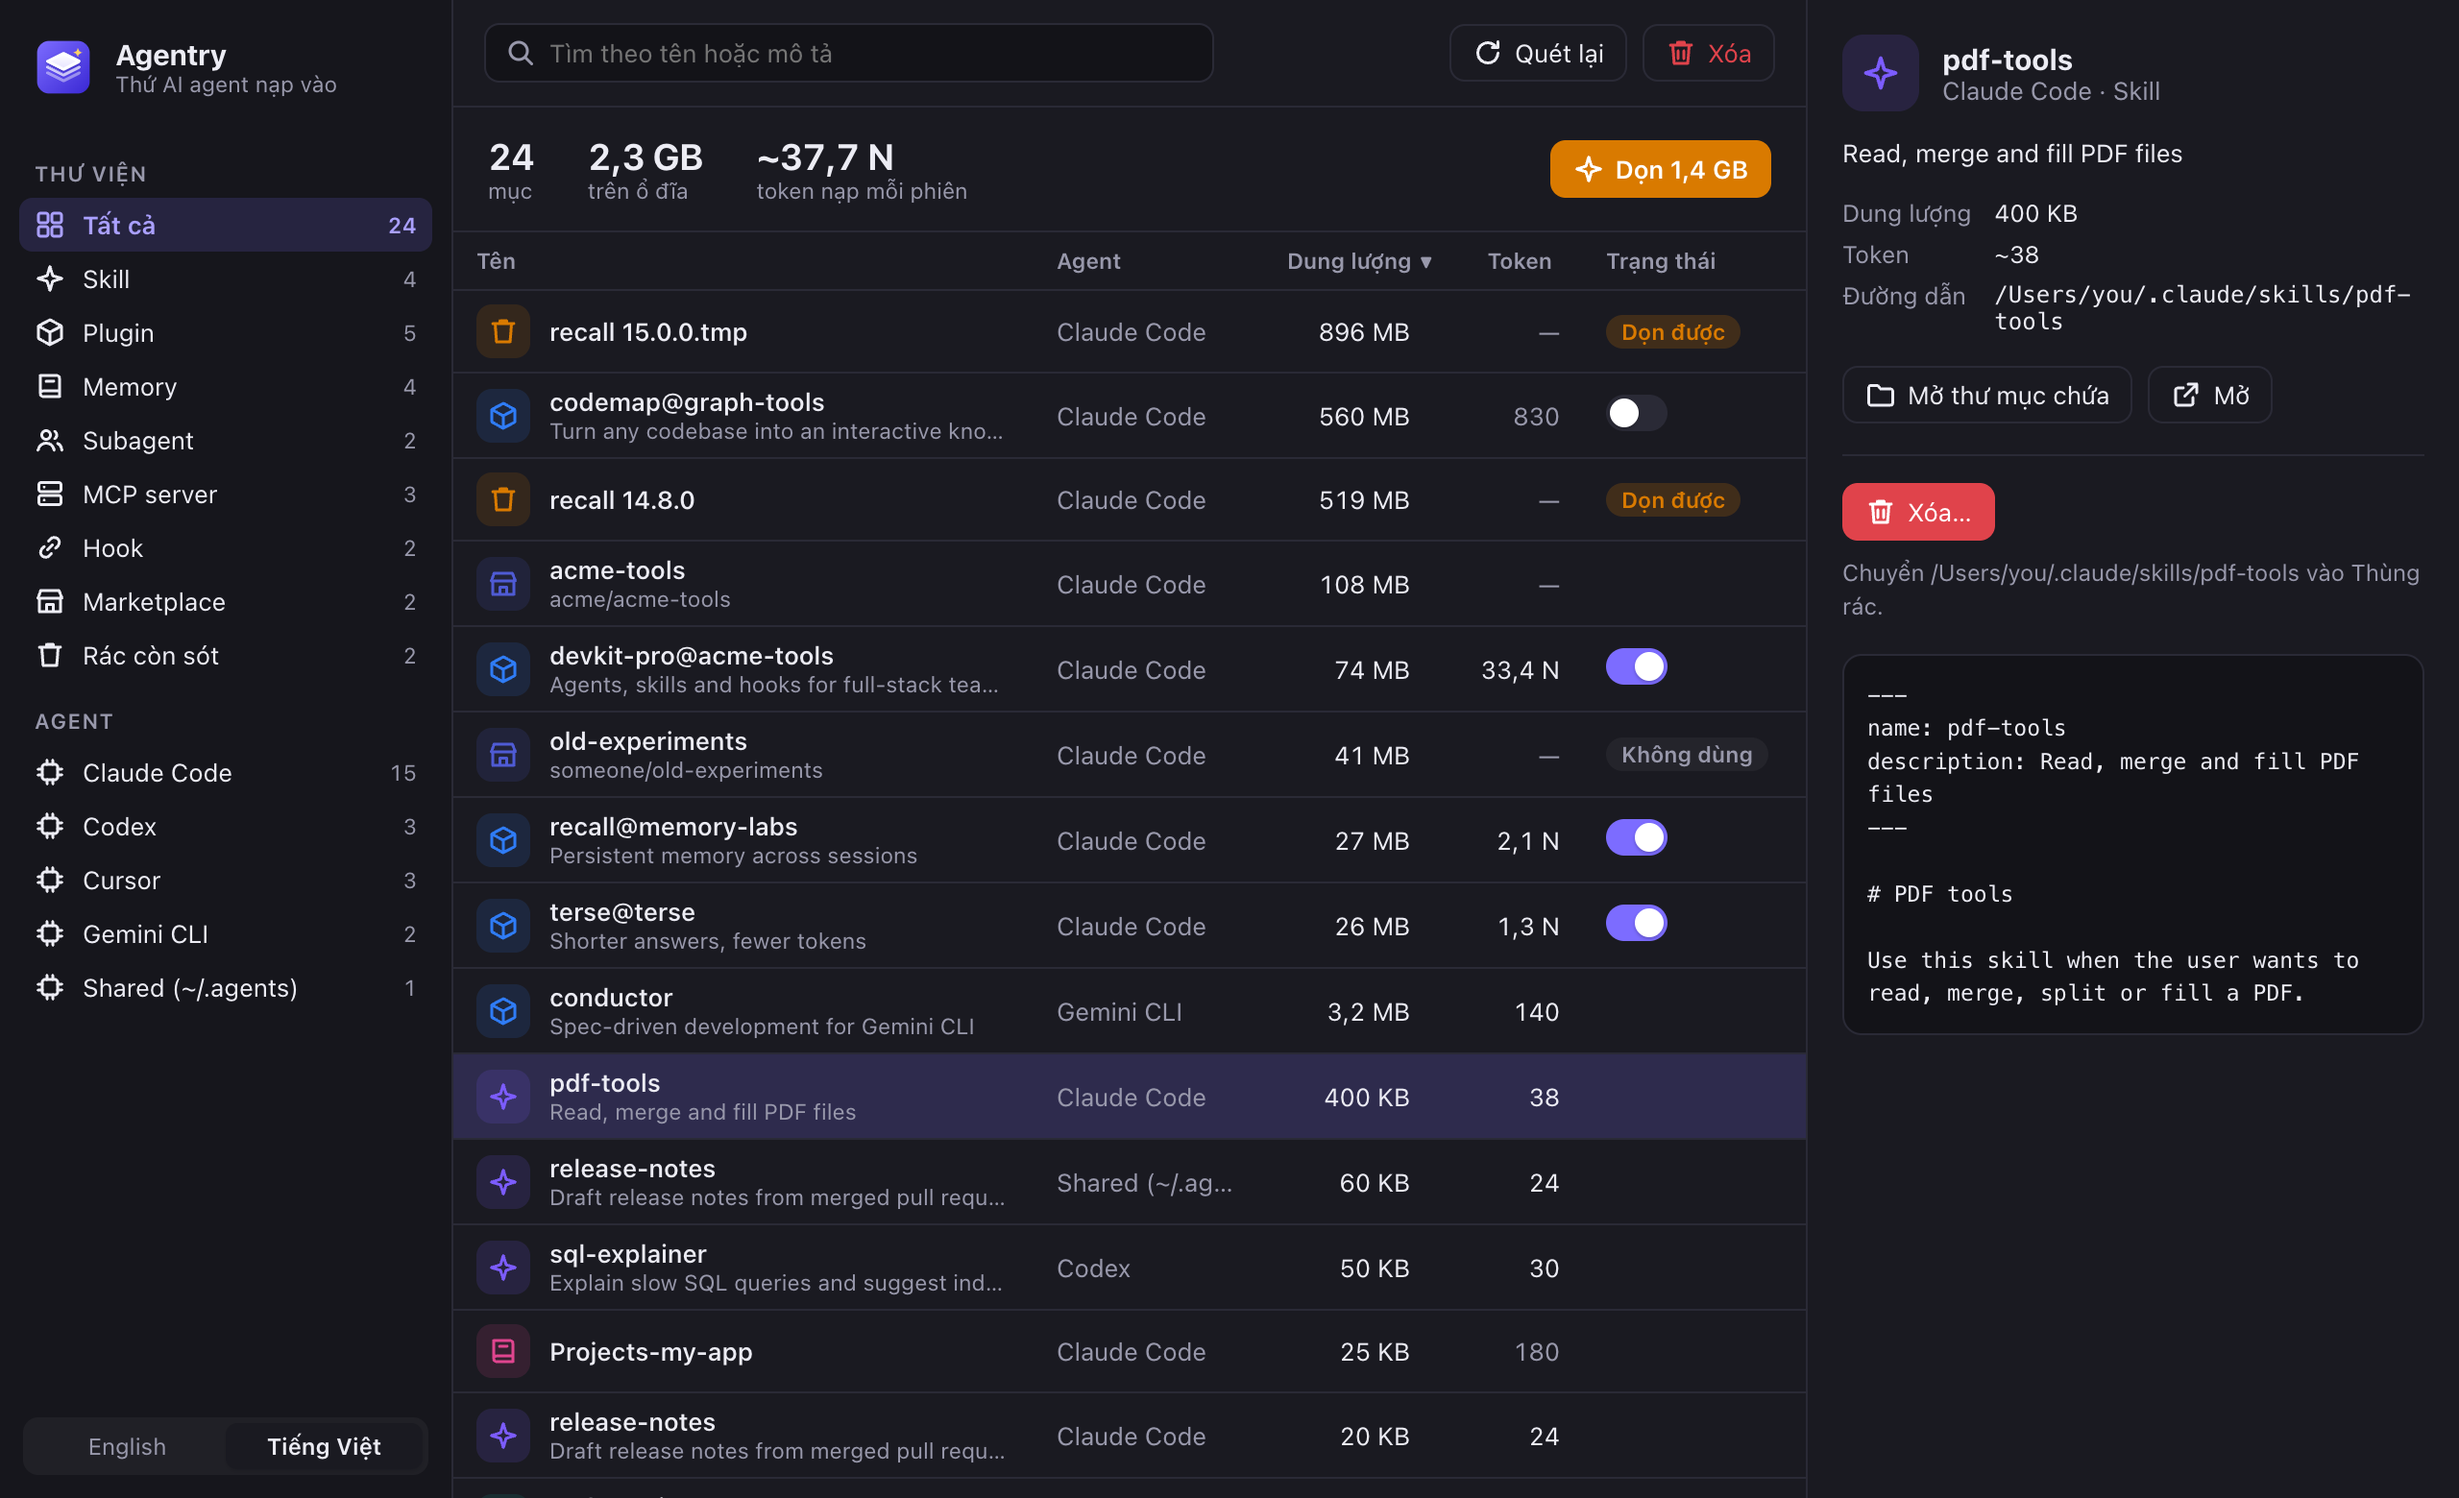
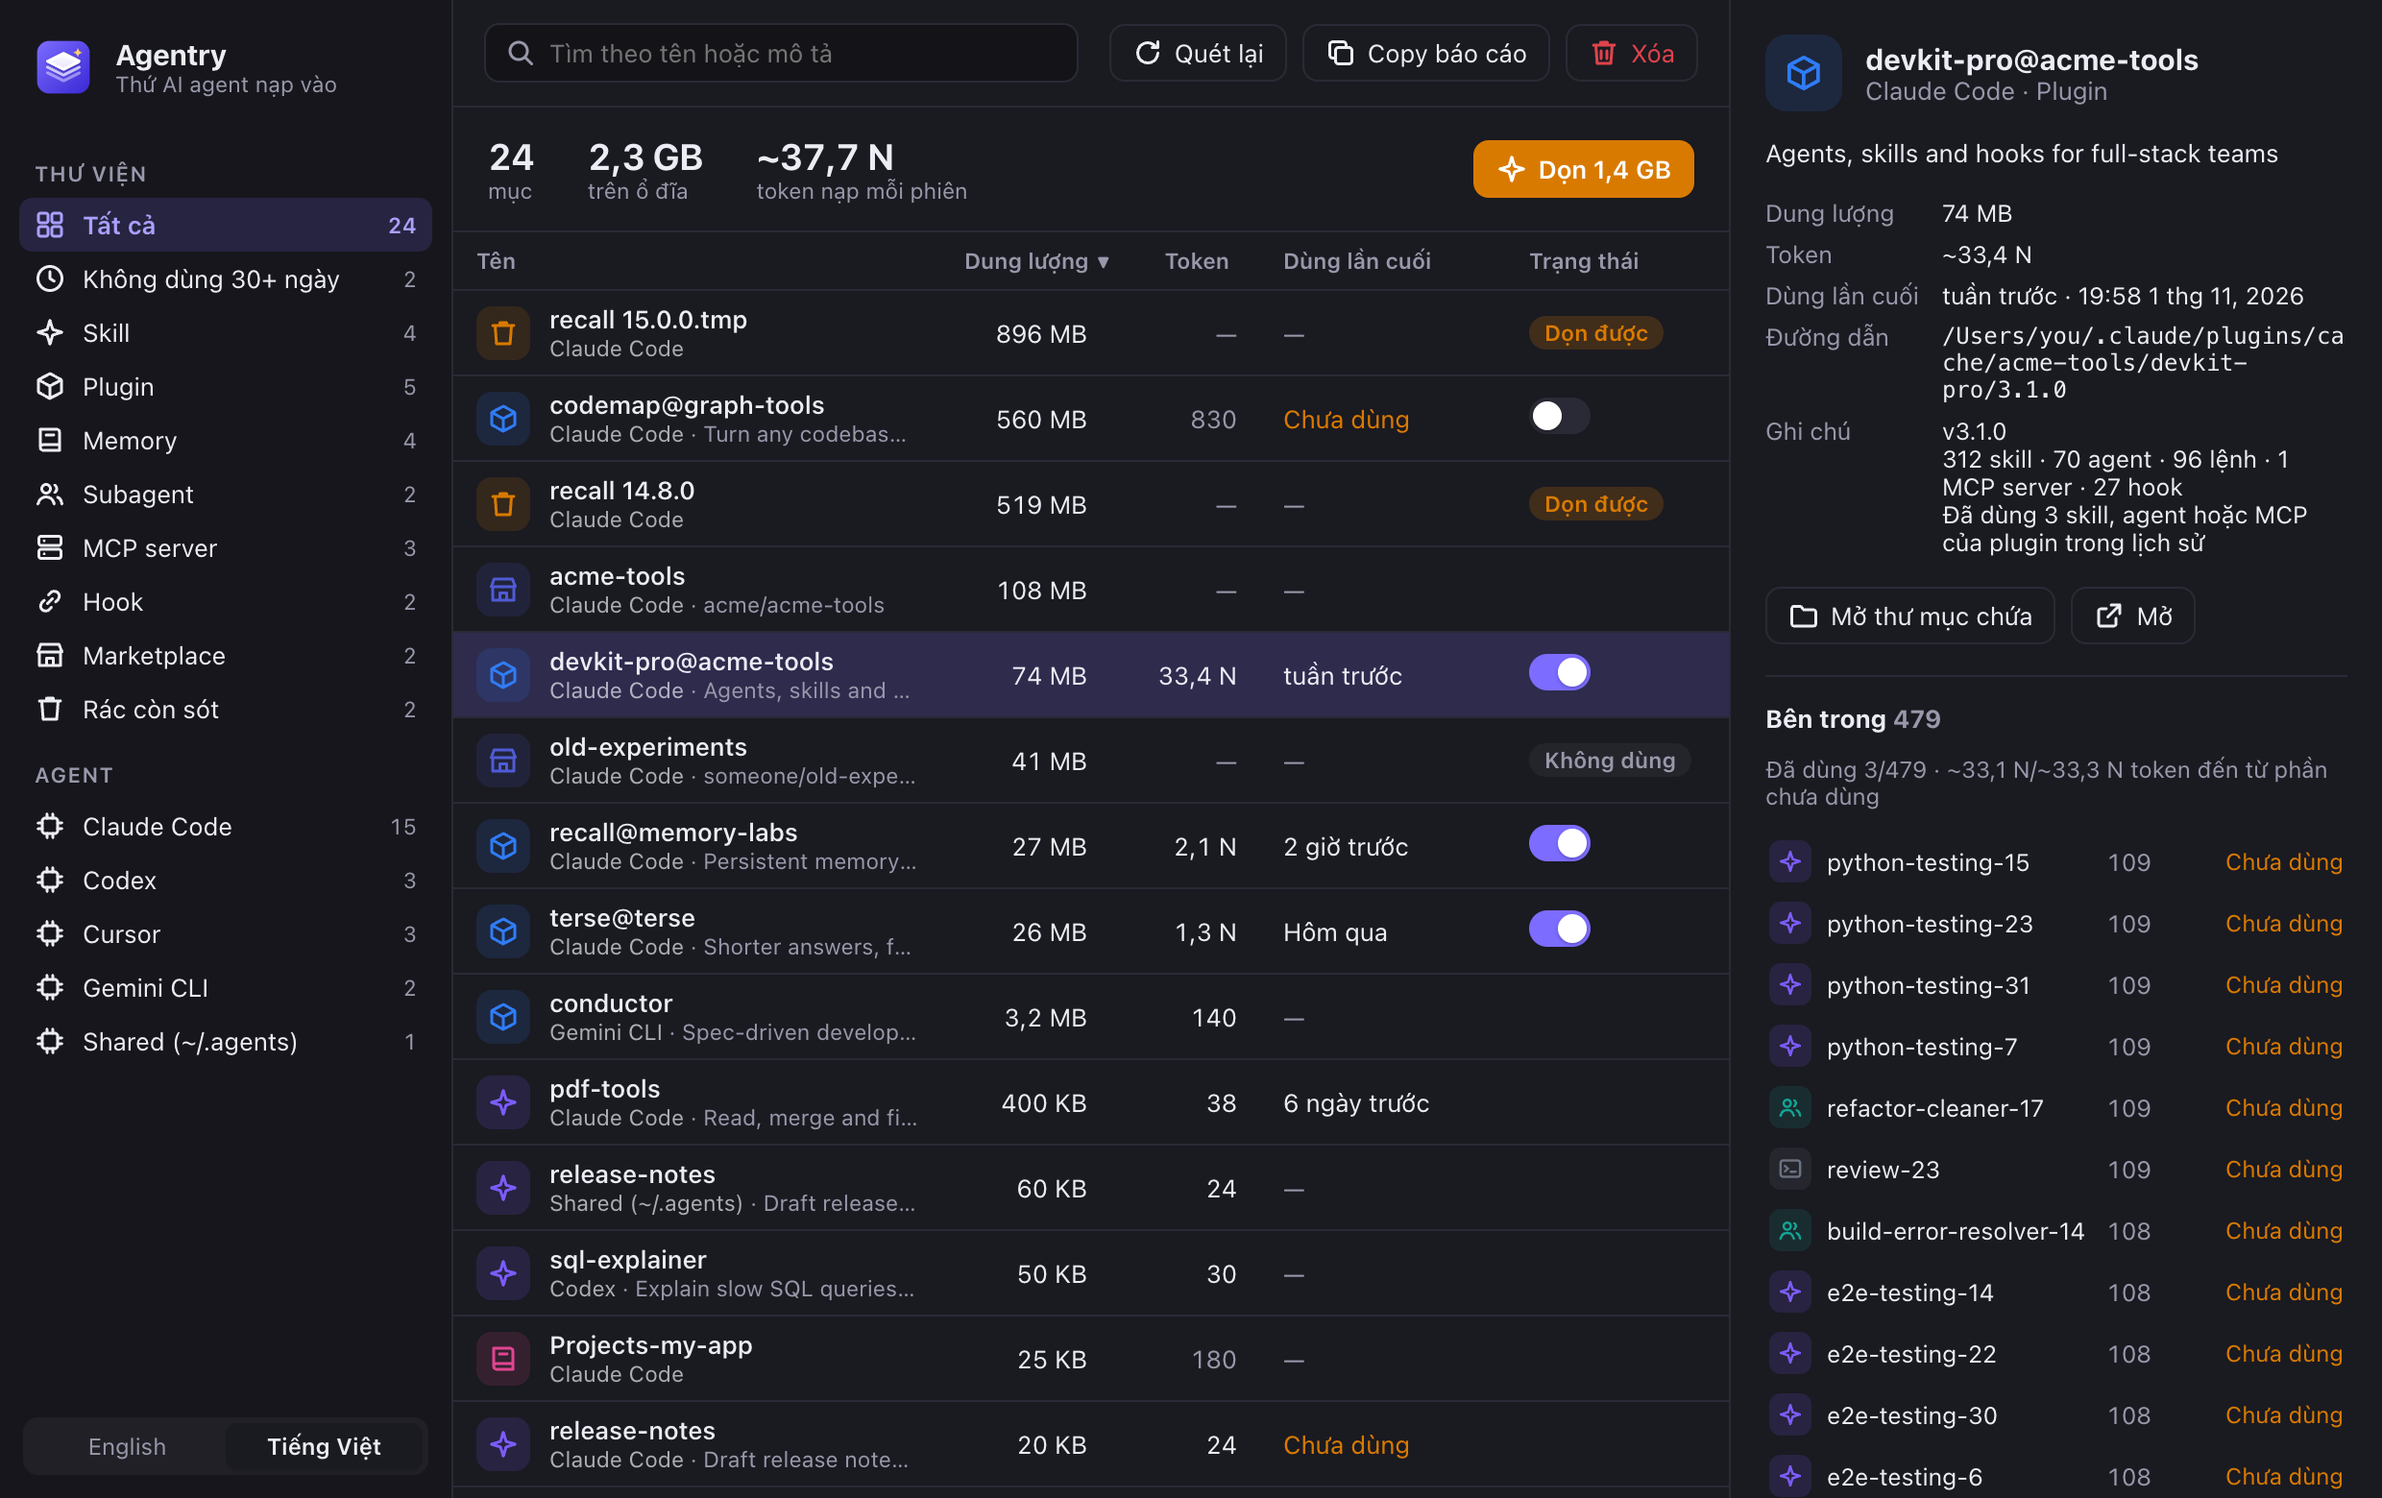
Add "Copy report" and refresh README screenshots
A toolbar button copies a Markdown summary of the setup: item count, disk
use, tokens loaded per session, reclaimable leftovers, items unused for
30+ days and the eight biggest context costs, in the current language.

- Names and numbers only: no file paths, and project memory (which can
  name private projects) never counts toward the top list.
- Falls back to a hidden text area when a webview blocks the async
  clipboard API, and confirms with a short green toast.
- README screenshots now show the Last used column and a plugin's
  "What's inside" list.

diff --git a/ui/app.js b/ui/app.js
@@ -119,6 +119,7 @@ function renderToolbar() {
   refresh.disabled = state.busy;
   refresh.classList.toggle('spin', state.busy);
   $('#remove').disabled = state.busy || !selectedItems().some(canRemove);
+  $('#copy-report').disabled = !state.items.length;
 }
 
 function renderSummary(list) {
@@ -320,8 +321,65 @@ function confirmRemoval(items) {
   $('#confirm').showModal();
 }
 
+/** A Markdown summary to share. Names and numbers only: no file paths, no project memory. */
+function buildReport() {
+  const items = state.items;
+  const md = (text) => String(text).replace(/\|/g, '\\|');
+  const leftovers = items.filter((i) => i.kind === 'leftover');
+  const stale = items.filter(isStale);
+  const top = items.filter((i) => sessionTokens(i) > 0).sort((a, b) => sessionTokens(b) - sessionTokens(a)).slice(0, 8);
+  return [
+    `## ${t('report.title')}`,
+    '',
+    `- ${t('report.totals', { items: items.length, disk: fmtBytes(sum(items, (i) => i.bytes)), tokens: fmtTokens(sum(items, sessionTokens)) })}`,
+    leftovers.length ? `- ${t('report.leftovers', { size: fmtBytes(sum(leftovers, (i) => i.bytes)) })}` : null,
+    stale.length ? `- ${t('report.stale', { n: stale.length })}` : null,
+    '',
+    `### ${t('report.top')}`,
+    '',
+    `| ${t('columns.name')} | ${t('columns.agent')} | ${t('columns.tokens')} | ${t('columns.lastUsed')} |`,
+    '|---|---|--:|---|',
+    ...top.map((i) => `| ${md(i.name)} | ${md(i.agent)} | ${fmtTokens(sessionTokens(i))} | ${md(lastUsedText(i))} |`),
+    '',
+    `_${t('report.footer')}: https://github.com/pvhung1403/agentry_`,
+  ]
+    .filter((line) => line !== null)
+    .join('\n');
+}
+
+async function copyText(text) {
+  try {
+    await navigator.clipboard.writeText(text);
+    return true;
+  } catch {
+    // Some webviews block the async clipboard API; fall back to a hidden text area.
+    const area = document.createElement('textarea');
+    area.value = text;
+    area.style.position = 'fixed';
+    area.style.opacity = '0';
+    document.body.append(area);
+    area.select();
+    const ok = document.execCommand('copy');
+    area.remove();
+    return ok;
+  }
+}
+
+let noticeTimer = 0;
+
+function showNotice(text) {
+  const toast = $('#toast');
+  toast.className = 'toast ok';
+  toast.innerHTML = `<h4>${esc(text)}<button type="button" data-action="dismiss" aria-label="${esc(t('dismiss'))}">${icon('close')}</button></h4>`;
+  toast.hidden = false;
+  clearTimeout(noticeTimer);
+  noticeTimer = setTimeout(() => (toast.hidden = true), 4000);
+}
+
 function showFailures(failures) {
   const toast = $('#toast');
+  clearTimeout(noticeTimer);
+  toast.className = 'toast';
   toast.innerHTML = `<h4>${esc(t('failed'))}<button type="button" data-action="dismiss" aria-label="${esc(t('dismiss'))}">${icon('close')}</button></h4>
     <ul>${failures.map((f) => `<li>${f.name ? `<strong>${esc(f.name)}</strong>: ` : ''}${esc(errorText(f.message))}</li>`).join('')}</ul>`;
   toast.hidden = false;
@@ -411,6 +469,9 @@ document.addEventListener('click', (event) => {
   else if (action === 'reveal' && item) api.reveal(item.id).catch((e) => showFailures([{ name: item.name, message: e }]));
   else if (action === 'open' && item) api.open(item.id).catch((e) => showFailures([{ name: item.name, message: e }]));
   else if (action === 'dismiss') $('#toast').hidden = true;
+  else if (action === 'copy-report') {
+    copyText(buildReport()).then((ok) => (ok ? showNotice(t('copied')) : showFailures([{ name: '', message: t('copyFailed') }])));
+  }
   else if (action === 'all-parts') {
     showAllParts = true;
     renderInspector();

diff --git a/ui/i18n.js b/ui/i18n.js
@@ -17,6 +17,18 @@ const dictionaries = {
     refresh: 'Refresh',
     refreshHint: 'Scan again (⌘R / Ctrl+R)',
     remove: 'Remove',
+    copyReport: 'Copy report',
+    copyReportHint: 'Copy a Markdown summary to share. File paths are left out.',
+    copied: 'Report copied as Markdown. No file paths included.',
+    copyFailed: 'Could not copy to the clipboard.',
+    report: {
+      title: 'My AI agent loadout',
+      totals: '**{items}** items · **{disk}** on disk · **~{tokens}** tokens loaded per session',
+      leftovers: '**{size}** reclaimable from old plugin versions',
+      stale: '**{n}** items unused for 30+ days',
+      top: 'Biggest context costs',
+      footer: 'Made with Agentry',
+    },
     columns: { name: 'Name', agent: 'Agent', kind: 'Kind', bytes: 'Size', tokens: 'Tokens', lastUsed: 'Last used', status: 'Status' },
     unused30: 'Unused 30+ days',
     lastUsed: 'Last used',
@@ -100,6 +112,18 @@ const dictionaries = {
     refresh: 'Quét lại',
     refreshHint: 'Quét lại (⌘R / Ctrl+R)',
     remove: 'Xóa',
+    copyReport: 'Copy báo cáo',
+    copyReportHint: 'Copy bản tóm tắt Markdown để chia sẻ. Không kèm đường dẫn file.',
+    copied: 'Đã copy báo cáo dạng Markdown, không kèm đường dẫn file.',
+    copyFailed: 'Không copy được vào clipboard.',
+    report: {
+      title: 'Bộ đồ nghề AI agent của tôi',
+      totals: '**{items}** mục · **{disk}** trên ổ đĩa · **~{tokens}** token nạp mỗi phiên',
+      leftovers: '**{size}** có thể dọn từ bản plugin cũ',
+      stale: '**{n}** mục không dùng 30+ ngày',
+      top: 'Tốn context nhiều nhất',
+      footer: 'Tạo bằng Agentry',
+    },
     columns: { name: 'Tên', agent: 'Agent', kind: 'Loại', bytes: 'Dung lượng', tokens: 'Token', lastUsed: 'Dùng lần cuối', status: 'Trạng thái' },
     unused30: 'Không dùng 30+ ngày',
     lastUsed: 'Dùng lần cuối',

diff --git a/ui/styles.css b/ui/styles.css
@@ -189,6 +189,8 @@ dialog li span { color: var(--muted); font-size: 12px; word-break: break-word; }
 .dialog-buttons { display: flex; justify-content: flex-end; gap: 8px; margin-top: 16px; }
 
 .toast { position: fixed; right: 20px; bottom: 20px; width: min(420px, 90vw); background: var(--panel); border: 1px solid var(--border); border-left: 4px solid var(--danger); border-radius: 10px; box-shadow: var(--shadow); padding: 12px 14px; z-index: 10; user-select: text; -webkit-user-select: text; }
+.toast.ok { border-left-color: #1f9d55; }
+.toast.ok h4 { margin: 0; }
 .toast h4 { margin: 0 0 6px; display: flex; justify-content: space-between; align-items: center; }
 .toast ul { margin: 0; padding-left: 18px; color: var(--muted); max-height: 200px; overflow: auto; }
 .toast button { border: 0; background: none; cursor: pointer; color: var(--muted); padding: 2px; }

diff --git a/ui/index.html b/ui/index.html
@@ -35,6 +35,9 @@
         <button type="button" class="btn" id="refresh" data-i18n-title="refreshHint">
           <span data-icon="refresh"></span><span data-i18n="refresh"></span>
         </button>
+        <button type="button" class="btn" id="copy-report" data-action="copy-report" data-i18n-title="copyReportHint">
+          <span data-icon="copy"></span><span data-i18n="copyReport"></span>
+        </button>
         <button type="button" class="btn btn-danger-ghost" id="remove" data-action="remove-selected">
           <span data-icon="trash"></span><span data-i18n="remove"></span>
         </button>

diff --git a/ui/icons.js b/ui/icons.js
@@ -20,6 +20,7 @@ const paths = {
   inspect: '<rect x="1.75" y="2.25" width="12.5" height="11.5" rx="1.75"/><path d="M10 2.25v11.5"/>',
   close: '<path d="m4 4 8 8M12 4l-8 8"/>',
   clock: '<circle cx="8" cy="8" r="6.25"/><path d="M8 4.5V8l2.25 1.5"/>',
+  copy: '<rect x="5.25" y="5.25" width="8.5" height="8.5" rx="1.5"/><path d="M10.75 5.25v-1.5a1.5 1.5 0 0 0-1.5-1.5h-5.5a1.5 1.5 0 0 0-1.5 1.5v5.5a1.5 1.5 0 0 0 1.5 1.5h1.5"/>',
 };
 
 export function icon(name) {

diff --git a/README.vi.md b/README.vi.md
@@ -37,6 +37,7 @@ Agentry gom tất cả vào một cửa sổ, cho thấy mỗi mục tốn bao n
 - **Bên trong plugin**: mọi skill, agent, lệnh và MCP server mà plugin mang theo, mỗi thứ tốn bao nhiêu, và bạn thực sự đã dùng những gì. Plugin lớn thường tốn hàng chục nghìn token chỉ để bạn dùng vài phần.
 - **Dọn một chạm**: bản plugin cũ còn sót trong cache, và marketplace không còn plugin nào dùng.
 - **Bật/tắt plugin Claude Code** mà không cần gỡ.
+- **Copy báo cáo**: bản tóm tắt Markdown về bộ cài của bạn (tổng số, dung lượng dọn được, thứ tốn context nhất) để chia sẻ. Không kèm đường dẫn file.
 - **Bảng chi tiết**: mục nằm ở đâu, xóa sẽ làm gì, và xem trước nội dung file.
 - **Tiếng Anh và tiếng Việt**, giao diện sáng và tối.
 

diff --git a/README.md b/README.md
@@ -37,6 +37,7 @@ Agentry puts all of it in one window, shows what each item costs, and removes it
 - **What's inside a plugin**: every skill, agent, command and MCP server it brings, what each costs, and which ones you have actually used. Big plugins often cost tens of thousands of tokens for a handful of parts in use.
 - **One-click cleanup**: old plugin versions left in the cache, and marketplaces no installed plugin comes from.
 - **Turn Claude Code plugins on or off** without uninstalling them.
+- **Copy report**: a Markdown summary of your setup (totals, reclaimable space, biggest context costs) to share. File paths are left out.
 - **Inspector**: where an item lives, what removing it will do, and a preview of the file.
 - **English and Vietnamese**, light and dark mode.
 
